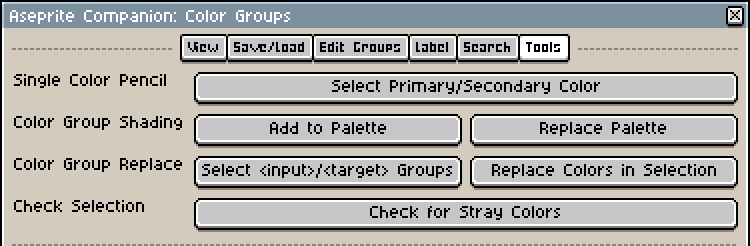
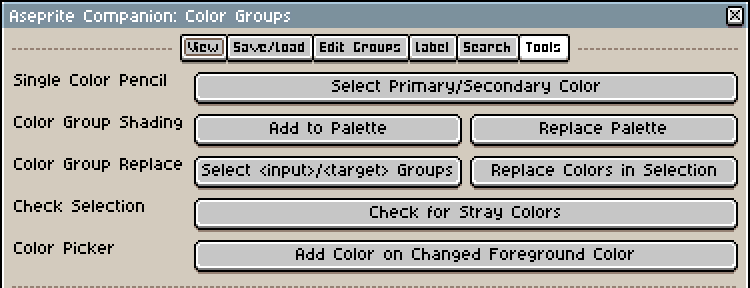
added button **Add Color on Changed Foreground Color**

diff --git a/README.md b/README.md
@@ -116,6 +116,12 @@ This can be done over the menu `Edit > Keyboard Shortcuts...`.
       - Activates this tool.
     - If active:
       - clicking onto a color group's color will check if any colors of the selected layers/frames/cels are not within that color group and list their RGBA values if there were any.
+  - **Color Picker** button **Add Color on Changed Foreground Color**
+    - When clicked:
+      - Activates this tool.
+      - Activates the color picker / eyedropper tool.
+    - If active:
+      - changing the selected foreground color will add that color to the selected color group. If you want to create your color groups individually from the pixels of an opened image, this is the tool for you.
 
 ![tools.png](img/color_groups/tools.png)
 
@@ -159,6 +165,7 @@ However, it won't be removed in case anyone prefers the simpler dialog.
     - Added button **Select \<input>/\<target> Groups**.
     - Added functionality to the `Replace Colors in Selection` button.
     - Added button **Check for Stray Colors**.
+    - Added button **Add Color on Changed Foreground Color**.
 - tag 2.0.0
   - `Color Groups` dialog changed:
     - General:
